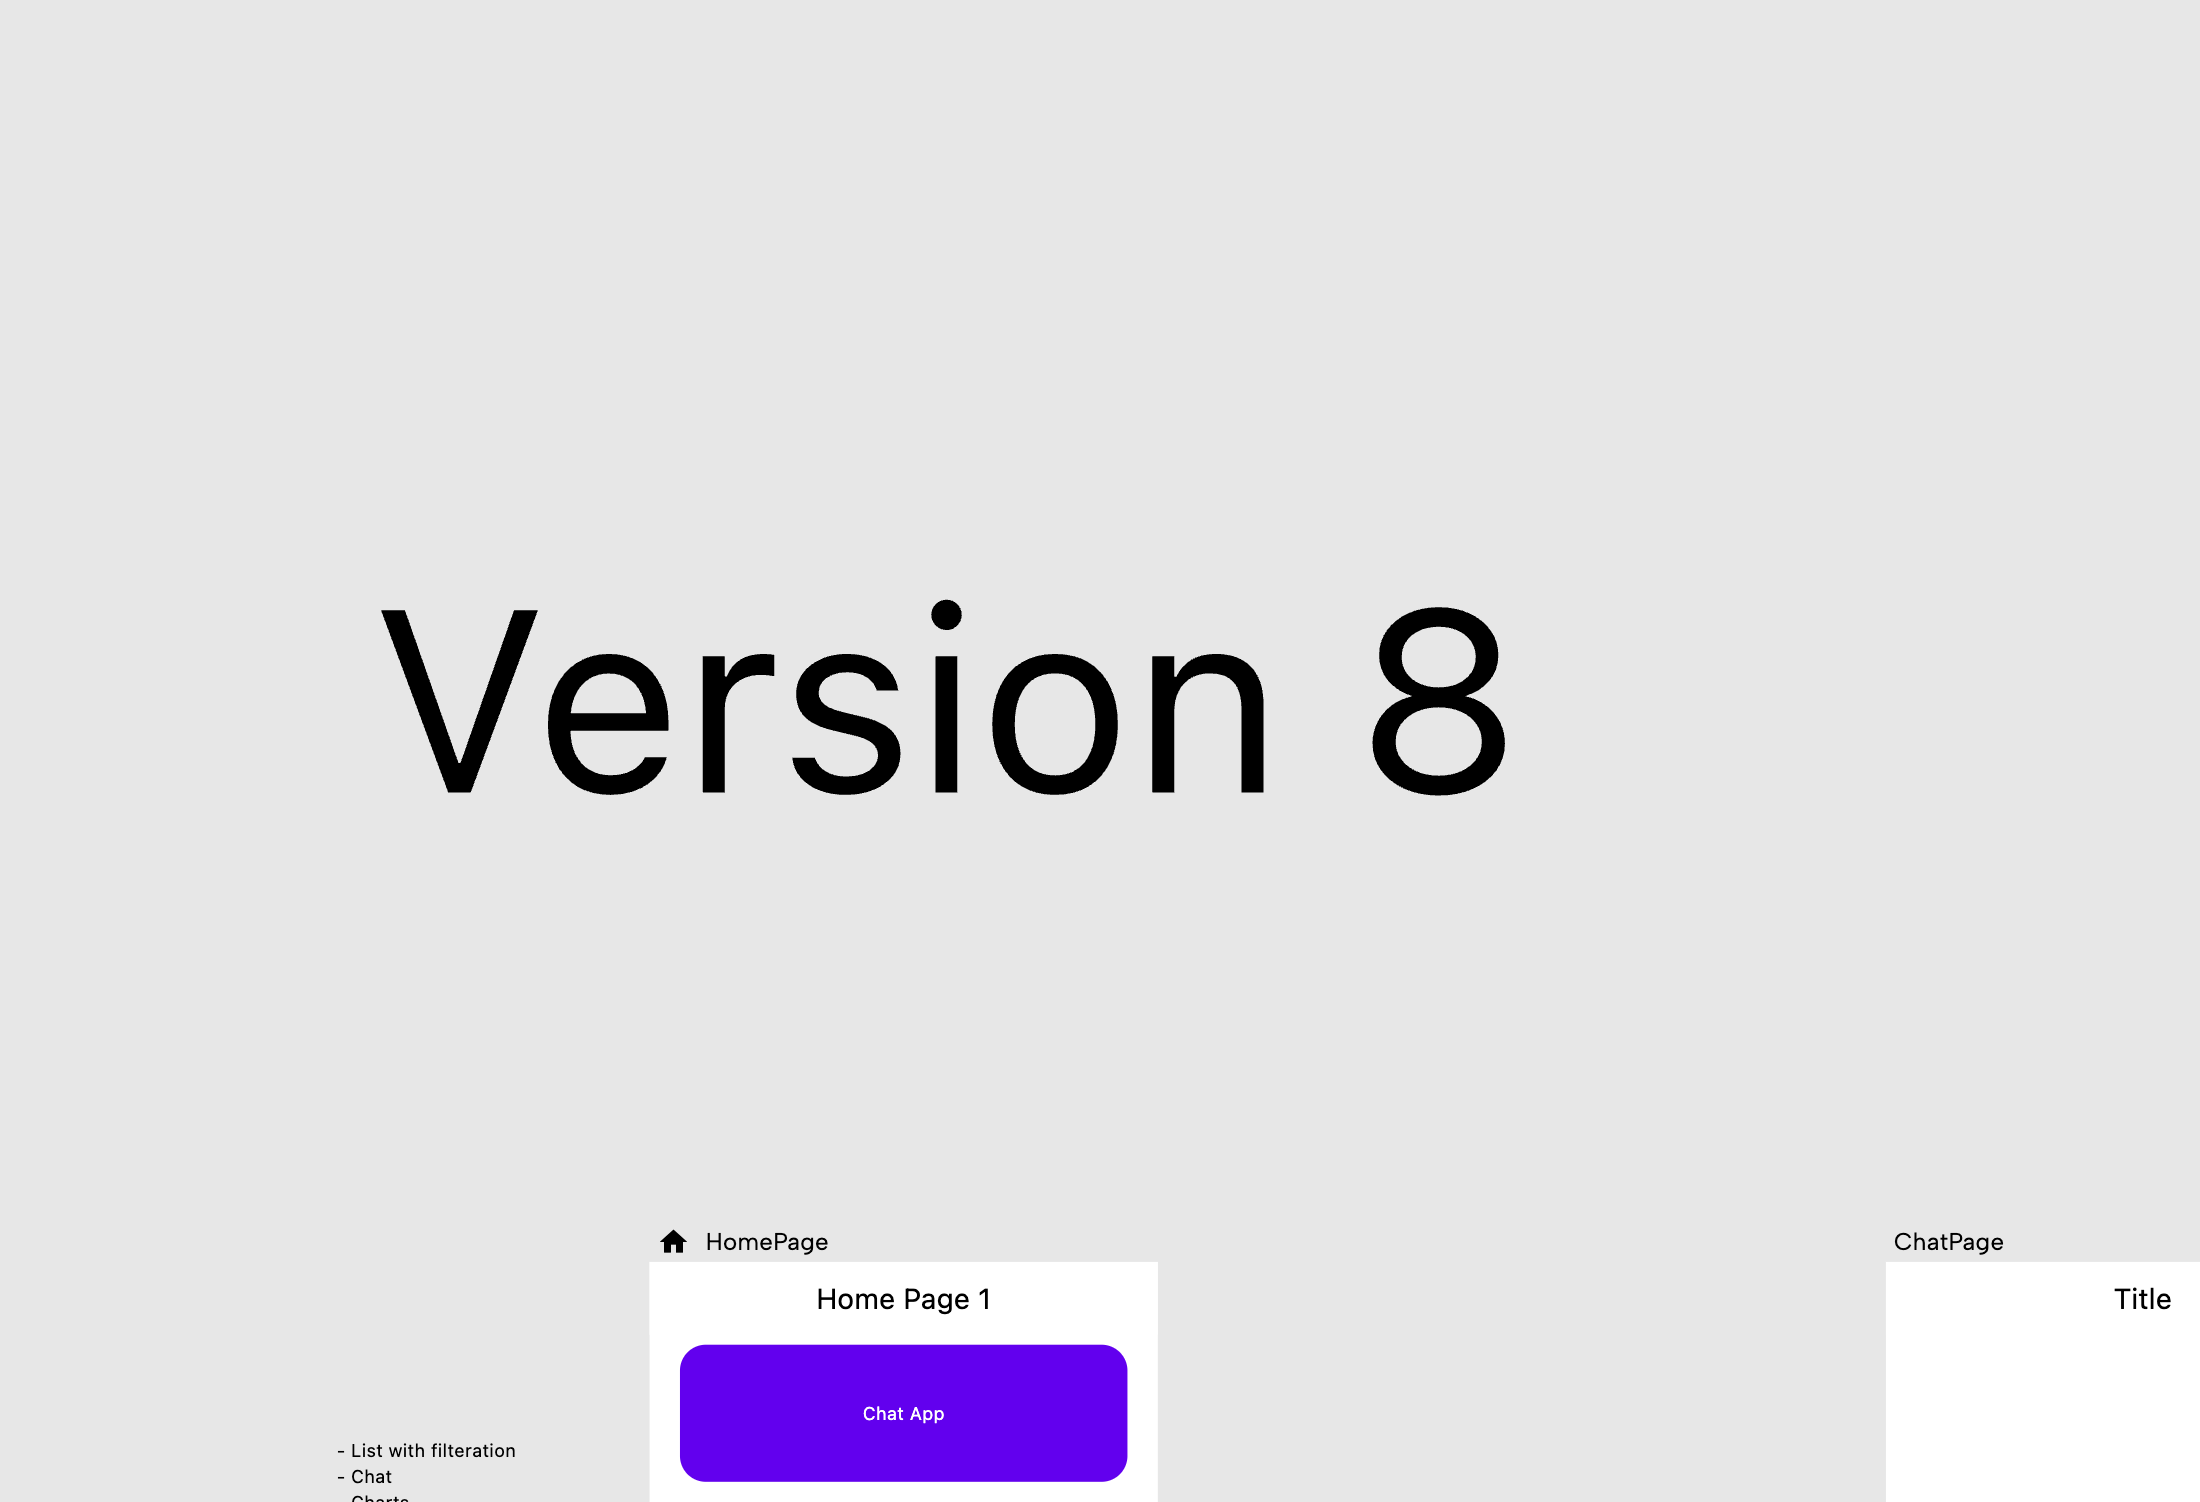
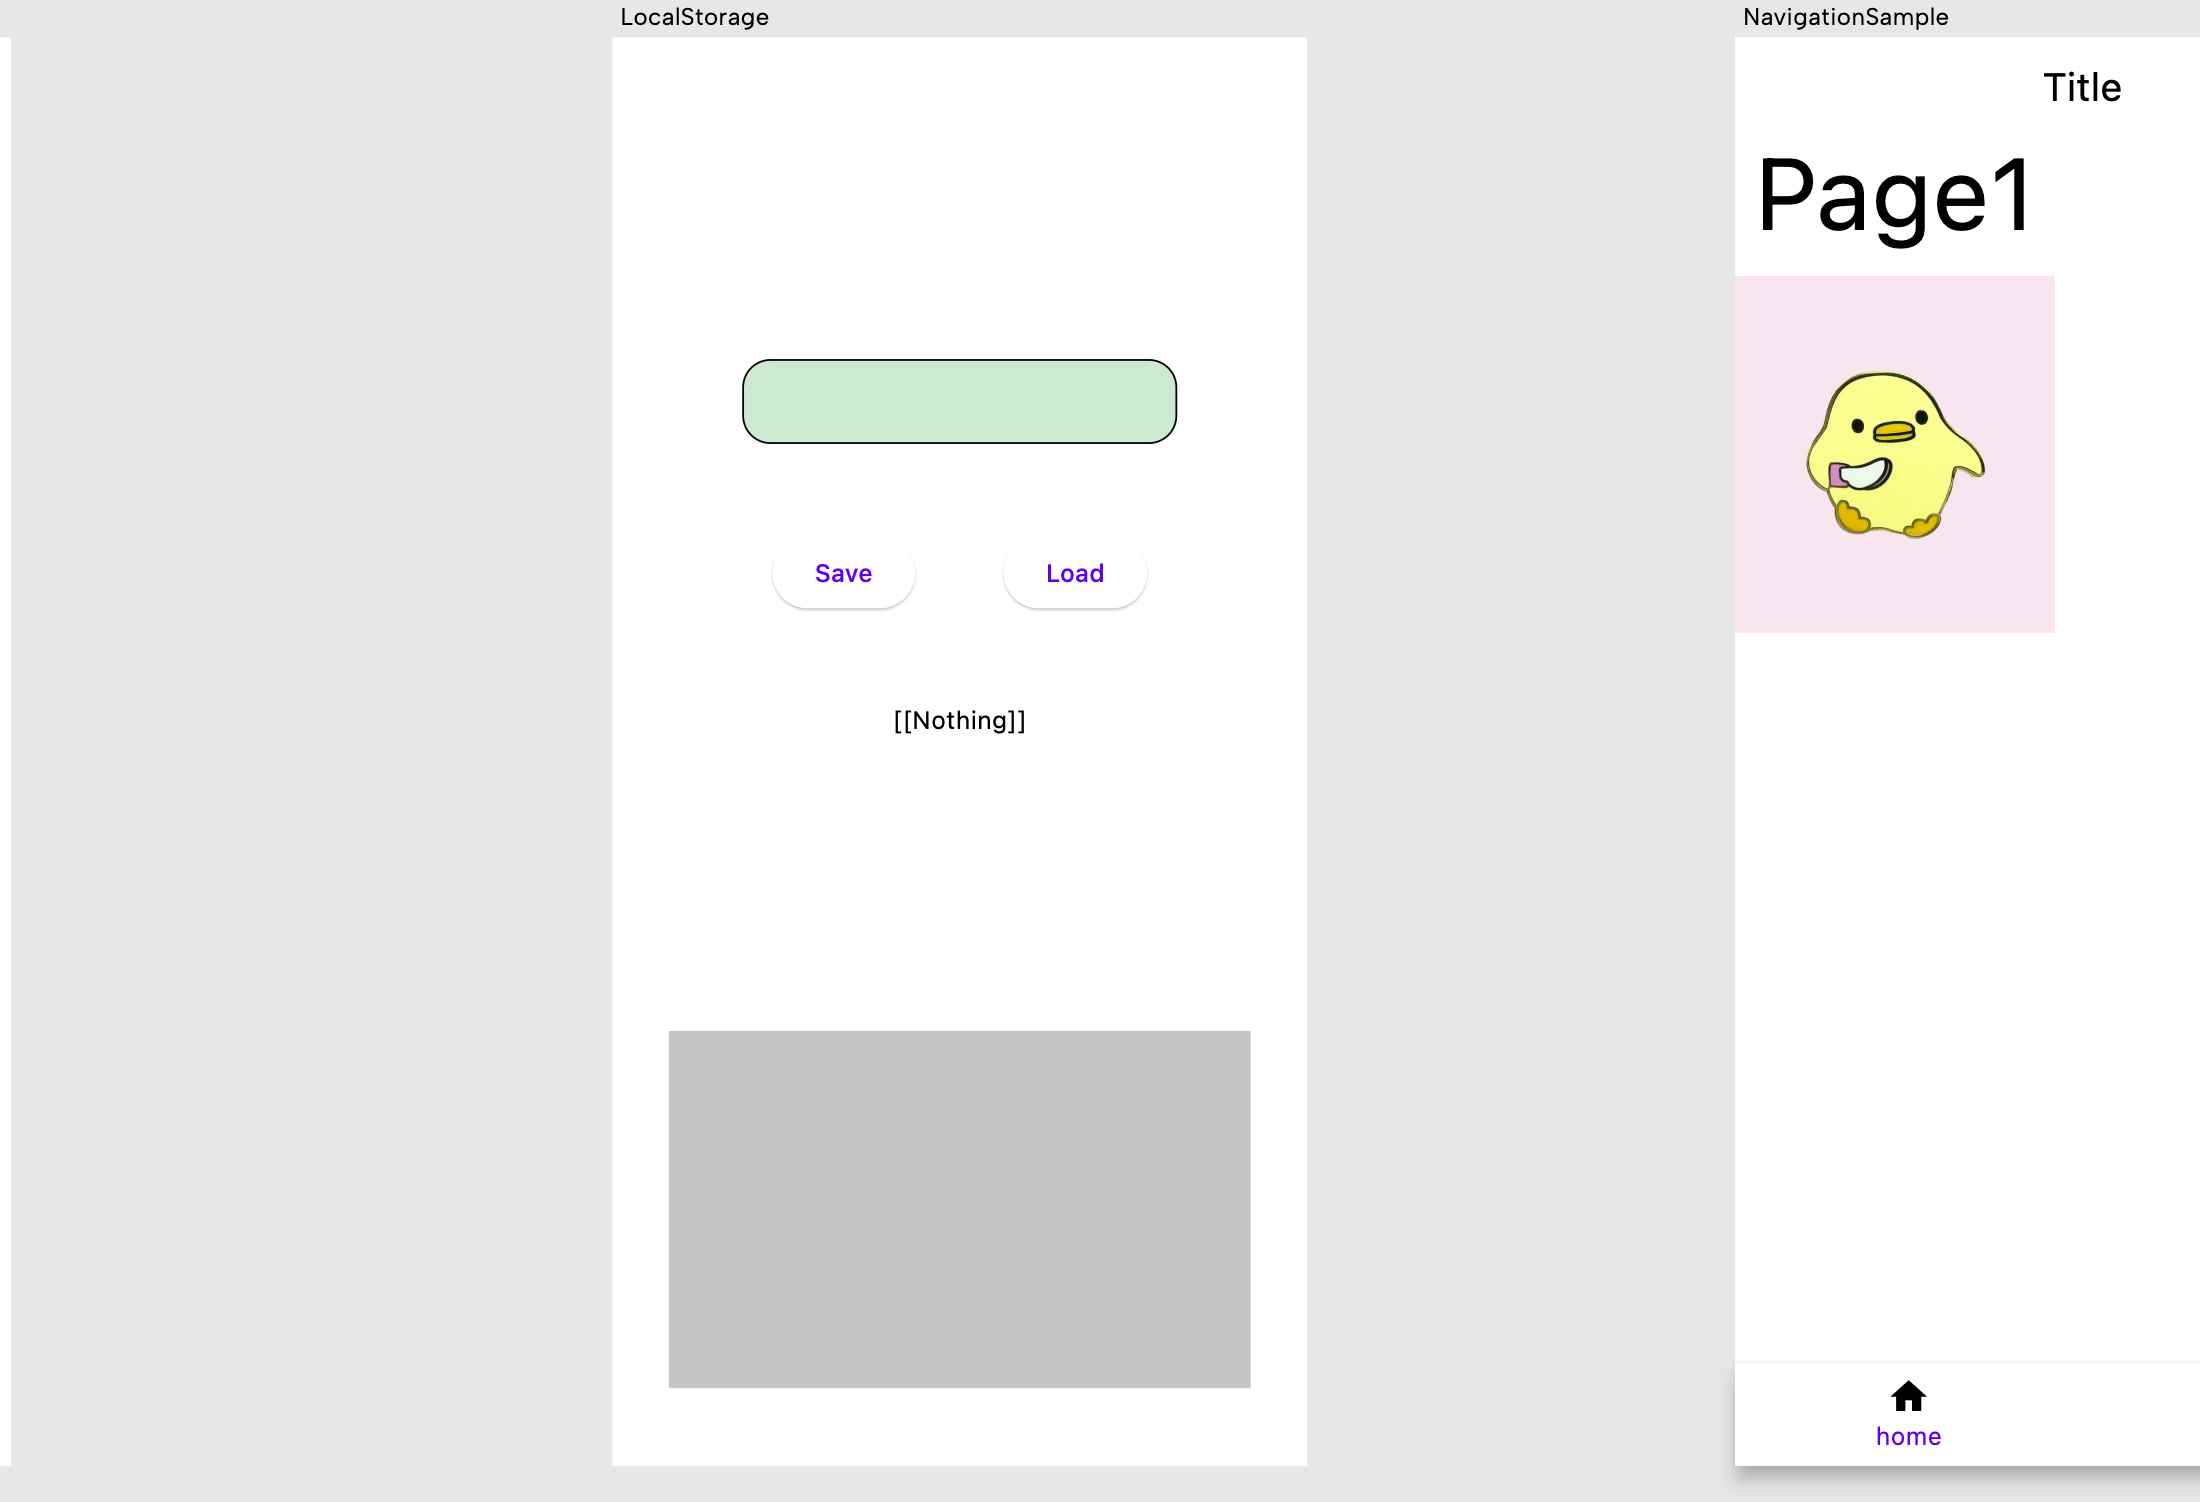
change local storgae

diff --git a/lib/local_storage.dart b/lib/local_storage.dart
@@ -34,6 +34,8 @@ class _LocalStorageState extends State<LocalStorage> {
             Positioned(
               width: 246.0,
               height: 243.0,
+              left: 73.5,
+              top: 182.0,
               child: NFlex(
                 direction: Axis.vertical,
                 spacing: 48.0,
